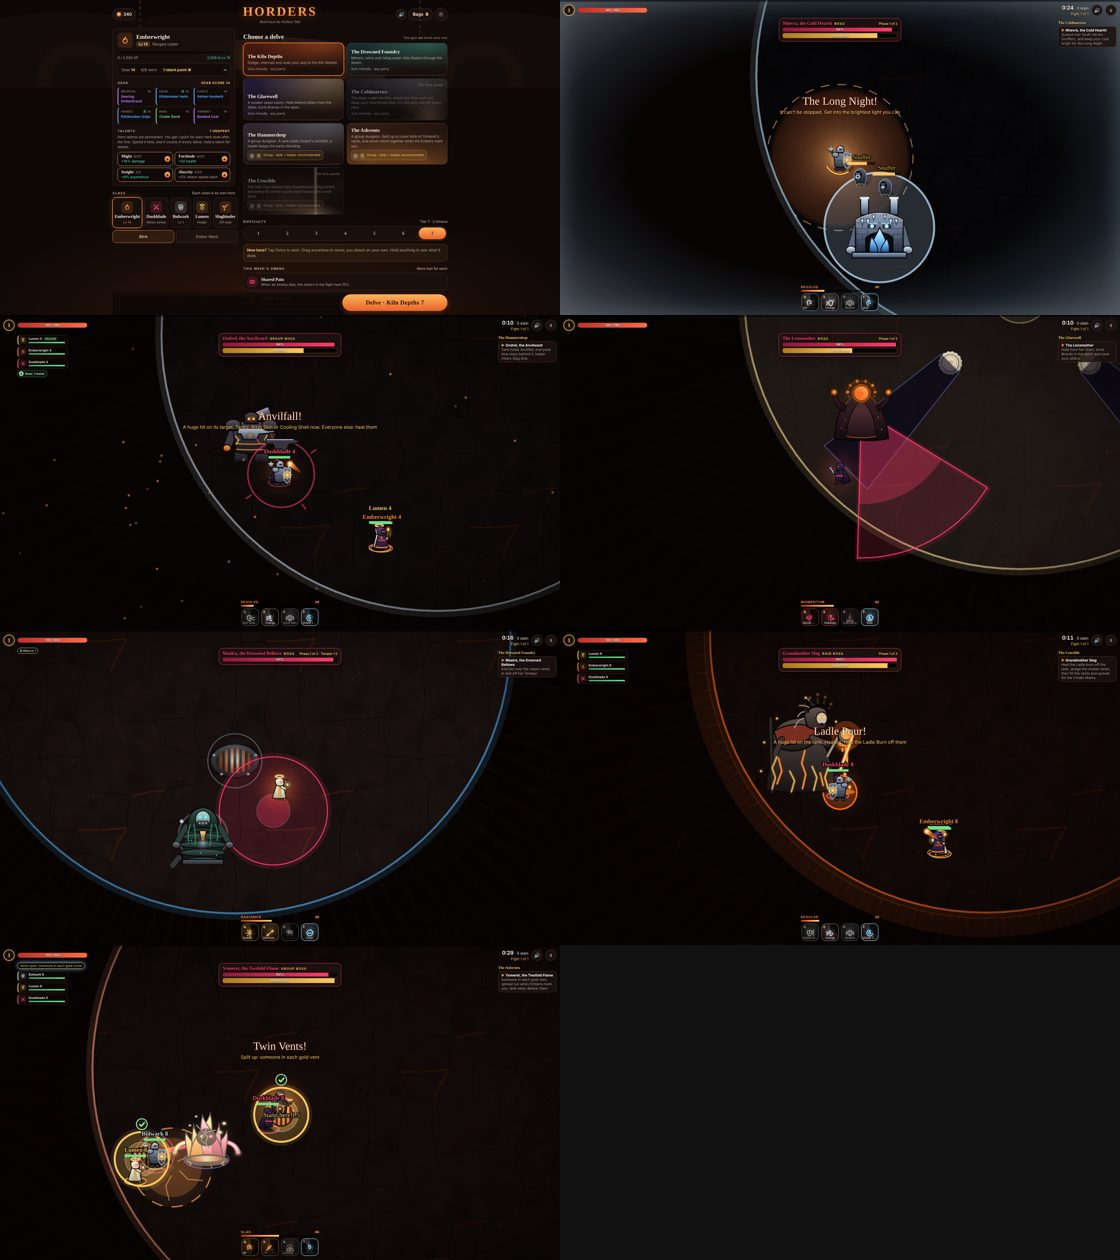
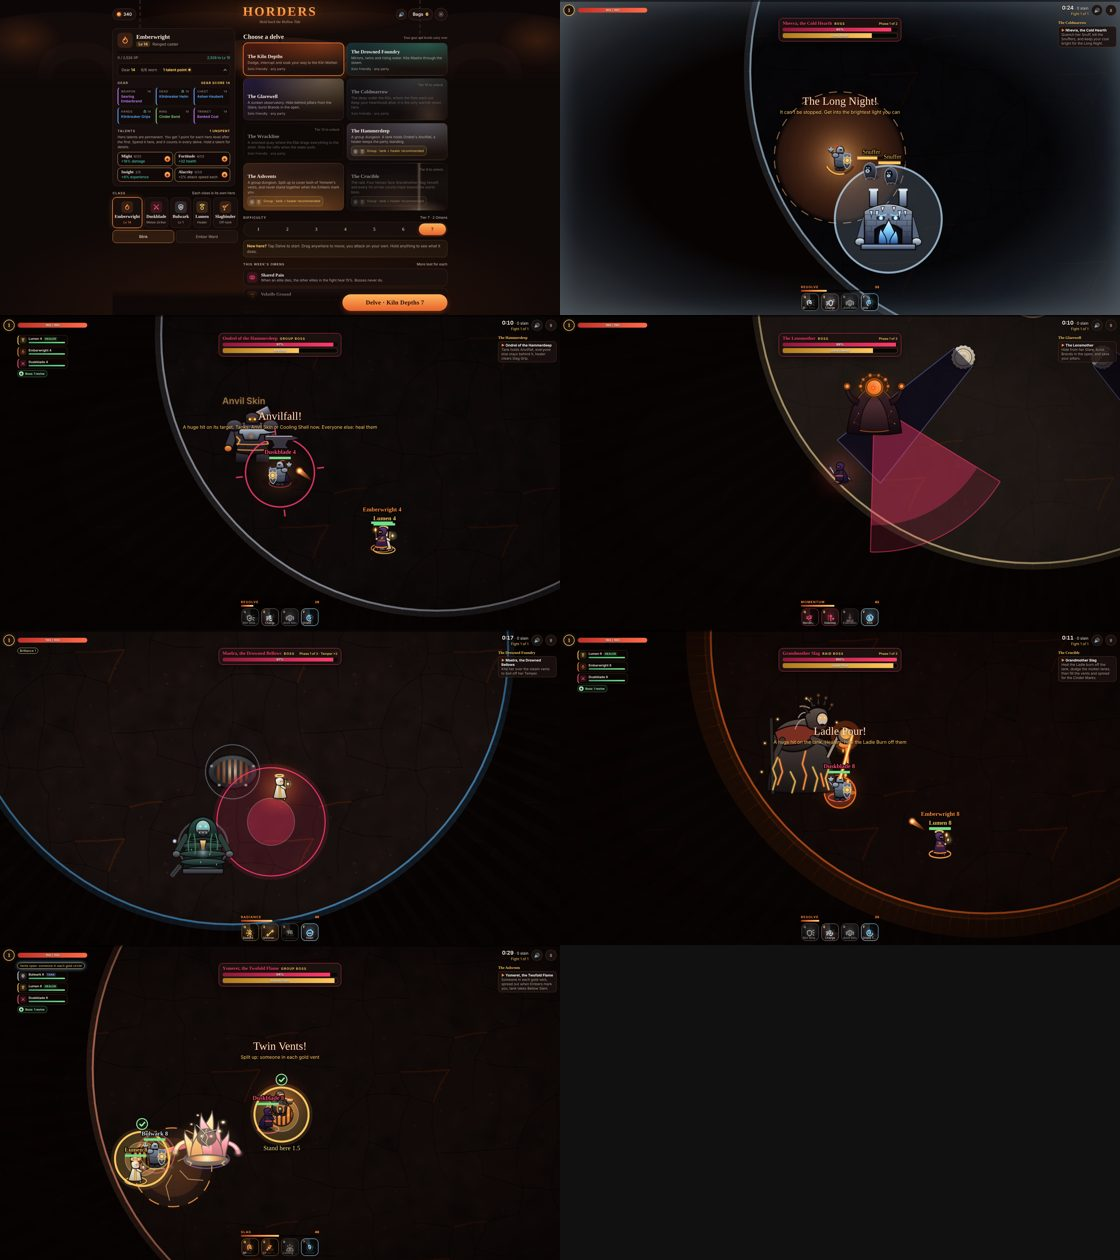
Deepguard set glyph; store shots re-shot for "Ondrel of the Hammerdeep"
The Deepguard glyph replaces #220's placeholder: a shield inside a broken
ring, the reach an ally has to stay within. The store screenshot sheets and
trailer frames showed the old boss title and are re-shot from main.

Claude-Session: https://claude.ai/code/session_012zrft5WLQzrCvekCDMSJ1X

diff --git a/client/icons.ts b/client/icons.ts
@@ -132,8 +132,9 @@ export const SET_ICON: Record<SetId, string> = {
   // Wrackrider (stand fast): a mooring bollard on the quay with a rope made fast, over a wave.
   // (An anchor would read better, but Anchored Dawn's talent already uses one.)
   wrackrider: 'M5.5 7q6.5-4.5 13 0Z M8.5 7c1.4 2.6 1.4 6.4 0 9.5 M15.5 7c-1.4 2.6-1.4 6.4 0 9.5 M5 16.5h14 M14.6 11.5c3 0 5.2 1.4 6.6 4 M2.5 21q2.4-2.4 4.8 0t4.8 0 4.8 0 4.6 0',
-  // Deepguard (stay close): two shields side by side (placeholder until visuals draws one).
-  deepguard: 'M3 5.5l4.5-1.5 4.5 1.5v5c0 3.4-2 5.6-4.5 6.8C5 16.1 3 13.9 3 10.5Z M12 7.5l4.5-1.5 4.5 1.5v5c0 3.4-2 5.6-4.5 6.8-2.5-1.2-4.5-3.4-4.5-6.8Z',
+  // Deepguard (stay close): a shield inside a broken ring, the reach you have to stay within.
+  // (Two shields side by side read as a pair of items, not as standing together.)
+  deepguard: 'M12 7.5l-3.8 1.4v3c0 2.5 1.6 4.2 3.8 5.1 2.2-.9 3.8-2.6 3.8-5.1v-3Z M7.5 3.6a9.5 9.5 0 0 1 9 0 M20.4 7.5a9.5 9.5 0 0 1 0 9 M16.5 20.4a9.5 9.5 0 0 1-9 0 M3.6 16.5a9.5 9.5 0 0 1 0-9',
 };
 
 /** Alchemy potions: three flask shapes so each reads by silhouette, coloured by what they do. */
